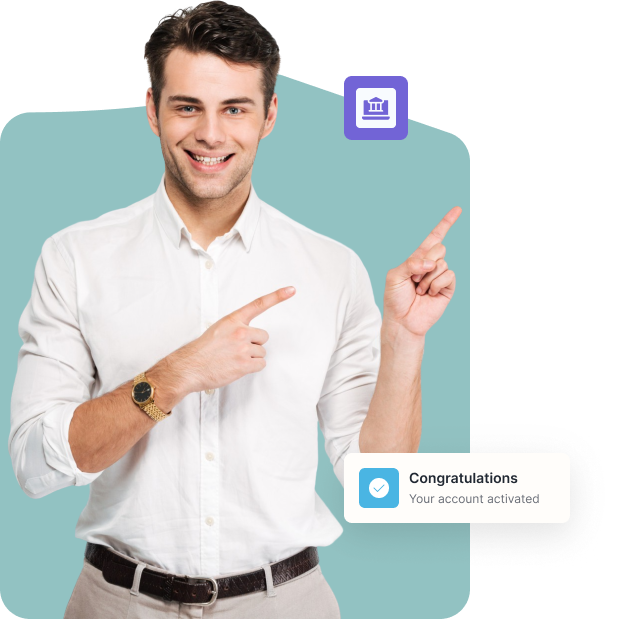
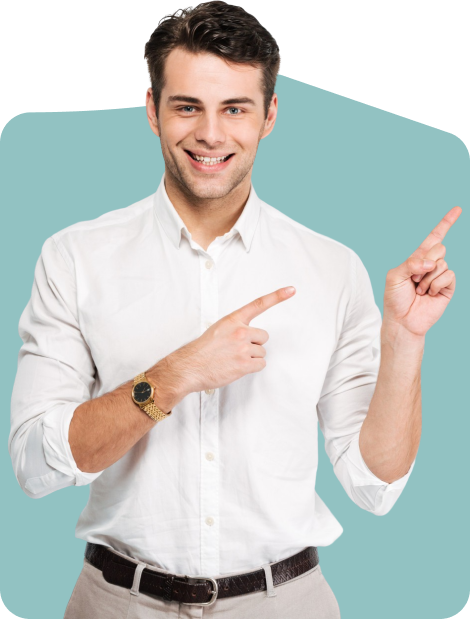
How it works

diff --git a/index.html b/index.html
@@ -40,7 +40,7 @@
                 <div class="row">
                     <div class="col-lg-6 col-md-6 col-12">
                         <div class="hero__content">
-                            <h2 class="hero__content-title">Digital Smart Wallet</h2>
+                            <h3 class="hero__content-title">Digital Smart Wallet</h3>
                             <h1 class="hero__content-heading">Digital <span>Payment</span> For Everyone.</h1>
                             <p class="hero__content-desc">
                                 We bring together eveything that’s required to build websites and apps that accept payments and send payouts globally. We are the best platform.
@@ -58,6 +58,51 @@
                     <div class="col-lg-5 offset-lg-1 col-md-6 col-12">
                         <div class="hero__media">
                             <img src="./assets/images/mobile.png" alt="Statistical" />
+                        </div>
+                    </div>
+                </div>
+            </div>
+        </div>
+
+        <!-- How It Works -->
+        <div class="how">
+            <div class="container">
+                <div class="row">
+                    <div class="col-lg-5 col-md-12 col-12">
+                        <div class="how__media">
+                            <img src="./assets/images/how-it-works.png" alt="How It Works" class="how__media-img" />
+                            <img src="./assets/icons/bank.svg" alt="Bank icon" class="how__decor" />
+
+                            <div class="how__active">
+                                <img src="./assets/icons/active.svg" alt="Active" />
+                                <div class="active__content">
+                                    <h4 class="active__content-title">Congratulations</h4>
+                                    <p class="active__content-desc">Your account activated</p>
+                                </div>
+                            </div>
+                        </div>
+
+                        <!-- <img src="./assets/icons/check.svg" alt="Bank icon" class="how__decor-check" /> -->
+                    </div>
+                    <div class="col-lg-5 offset-2 col-md-12 col-12">
+                        <div class="how__content">
+                            <h3 class="how__content-title">Digital Smart Wallet</h3>
+                            <h2 class="how__content-heading">How It Works</h2>
+
+                            <ol class="content__list">
+                                <li class="content__item">
+                                    Open a High Interest Checking account
+                                    <p class="content__item-desc">Fund your bank account with a minimum balance of $100. Enroll in 3 minutes or less!</p>
+                                </li>
+                                <li class="content__item">
+                                    10 point-of-sale transactions each Month that are at least $10 each.
+                                    <p class="content__item-desc">Be sure to use your rewards checking account as often as possible in order to accue APYI</p>
+                                </li>
+                                <li class="content__item">
+                                    Receive up to 5.50% APY
+                                    <p class="content__item-desc">The APY you earn will be based on your account balance and satisfying the transaction requirement.</p>
+                                </li>
+                            </ol>
                         </div>
                     </div>
                 </div>

diff --git a/assets/css/style.css b/assets/css/style.css
@@ -1,4 +1,4 @@
-@import url("https://fonts.googleapis.com/css2?family=Open+Sans:wght@400;500;600;700&display=swap");
+@import url("https://fonts.googleapis.com/css2?family=Inter:wght@400;500;600;700&family=Open+Sans:wght@400;500;600;700;800&display=swap");
 
 * {
     margin: 0;
@@ -139,10 +139,11 @@ button {
 
 /* ===== Hero ===== */
 .hero {
-    margin-top: 76px;
+    margin: 76px 0 80px;
 }
 
-.hero__content-title {
+.hero__content-title,
+.how__content-title {
     color: #696d77;
     font-size: 1.6rem;
     font-weight: 400;
@@ -151,7 +152,8 @@ button {
     align-items: center;
 }
 
-.hero__content-title::before {
+.hero__content-title::before,
+.how__content-title::before {
     content: "";
     display: inline-block;
     width: 18px;
@@ -160,7 +162,8 @@ button {
     margin-right: 12px;
 }
 
-.hero__content-heading {
+.hero__content-heading,
+.how__content-heading {
     margin-top: 12px;
     color: var(--primary-color);
     font-size: 6rem;
@@ -213,4 +216,78 @@ button {
 .hero__media img {
     display: block;
     width: 100%;
+}
+
+/* ===== How It Works ===== */
+.how {
+    padding-top: 80px;
+}
+
+.how__media {
+    position: relative;
+}
+
+.how__media-img {
+    width: 100%;
+    display: block;
+}
+
+.how__decor {
+    position: absolute;
+    top: 76px;
+    right: 55px;
+}
+
+.how__content-heading {
+    padding-bottom: 40px;
+}
+
+.content__item {
+    color: var(--primary-color);
+    font-size: 2.2rem;
+    font-weight: 600;
+    line-height: 145.455%;
+    margin-top: 30px;
+}
+
+.content__item-desc {
+    margin-top: 16px;
+    color: #696d76;
+    font-size: 1.6rem;
+    font-weight: 400;
+    line-height: 175%;
+}
+
+.how__active {
+    position: absolute;
+
+    left: 50%;
+    transform: translateX(50%);
+    bottom: 96px;
+    display: flex;
+    align-items: center;
+    padding: 15px;
+    border-radius: 8px;
+    background: #fffdfa;
+    width: 226px;
+    box-shadow: 0px 14px 34px 0px rgba(0, 0, 0, 0.07);
+}
+
+.active__content {
+    margin-left: 10px;
+}
+
+.active__content-title {
+    color: var(--primary-color);
+    font-family: Inter;
+    font-size: 1.4rem;
+    font-weight: 600;
+}
+
+.active__content-desc {
+    margin-top: 5px;
+    color: var(--secondary-color);
+    font-family: Inter;
+    font-size: 1.2rem;
+    font-weight: 400;
 }
